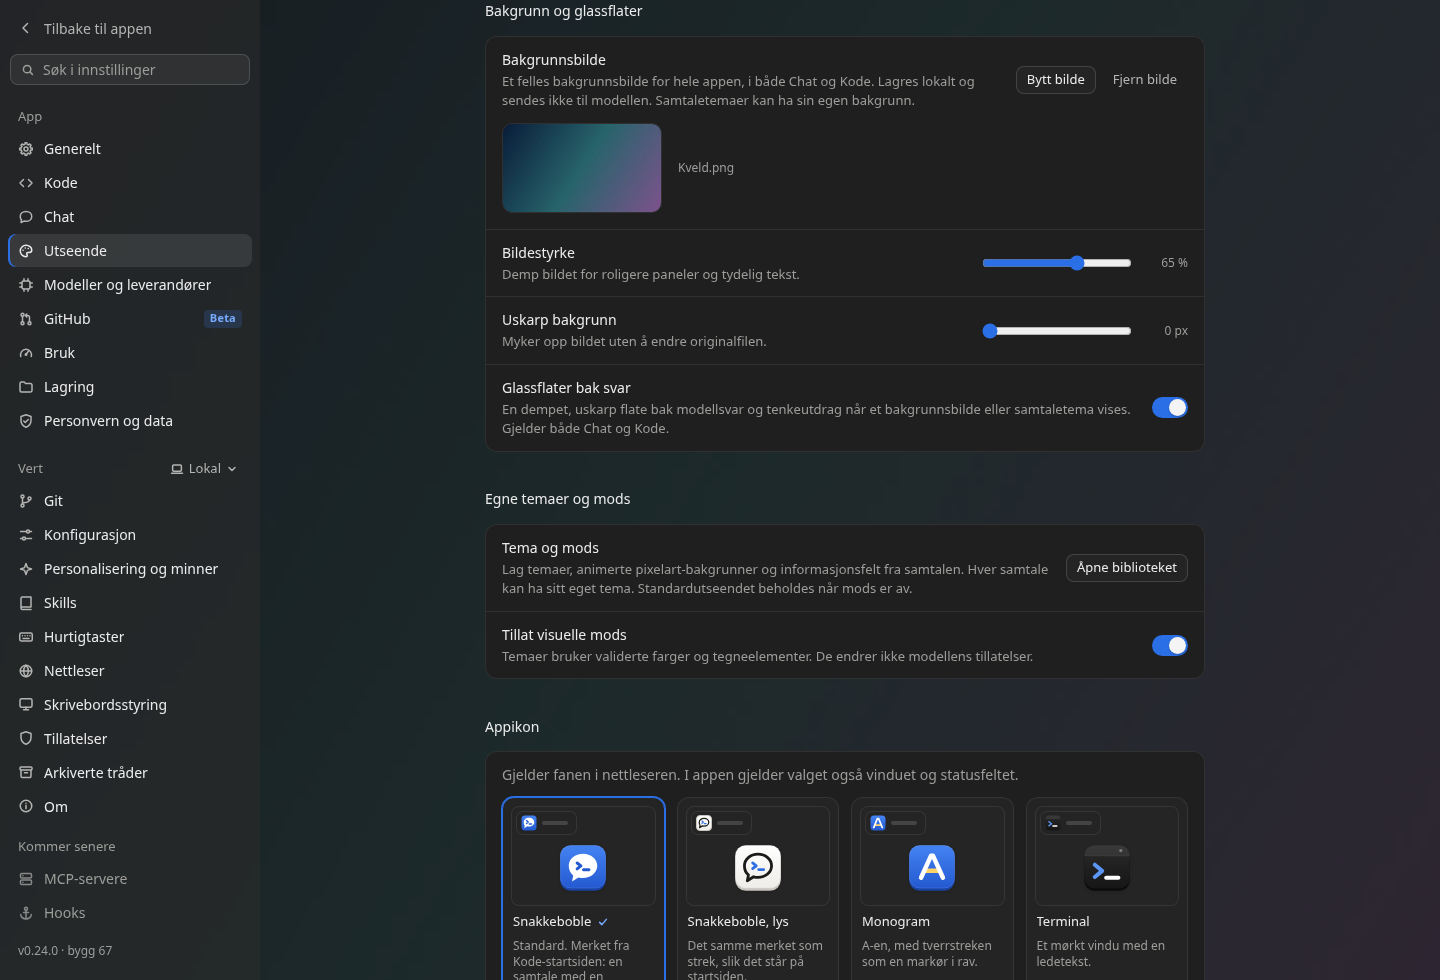
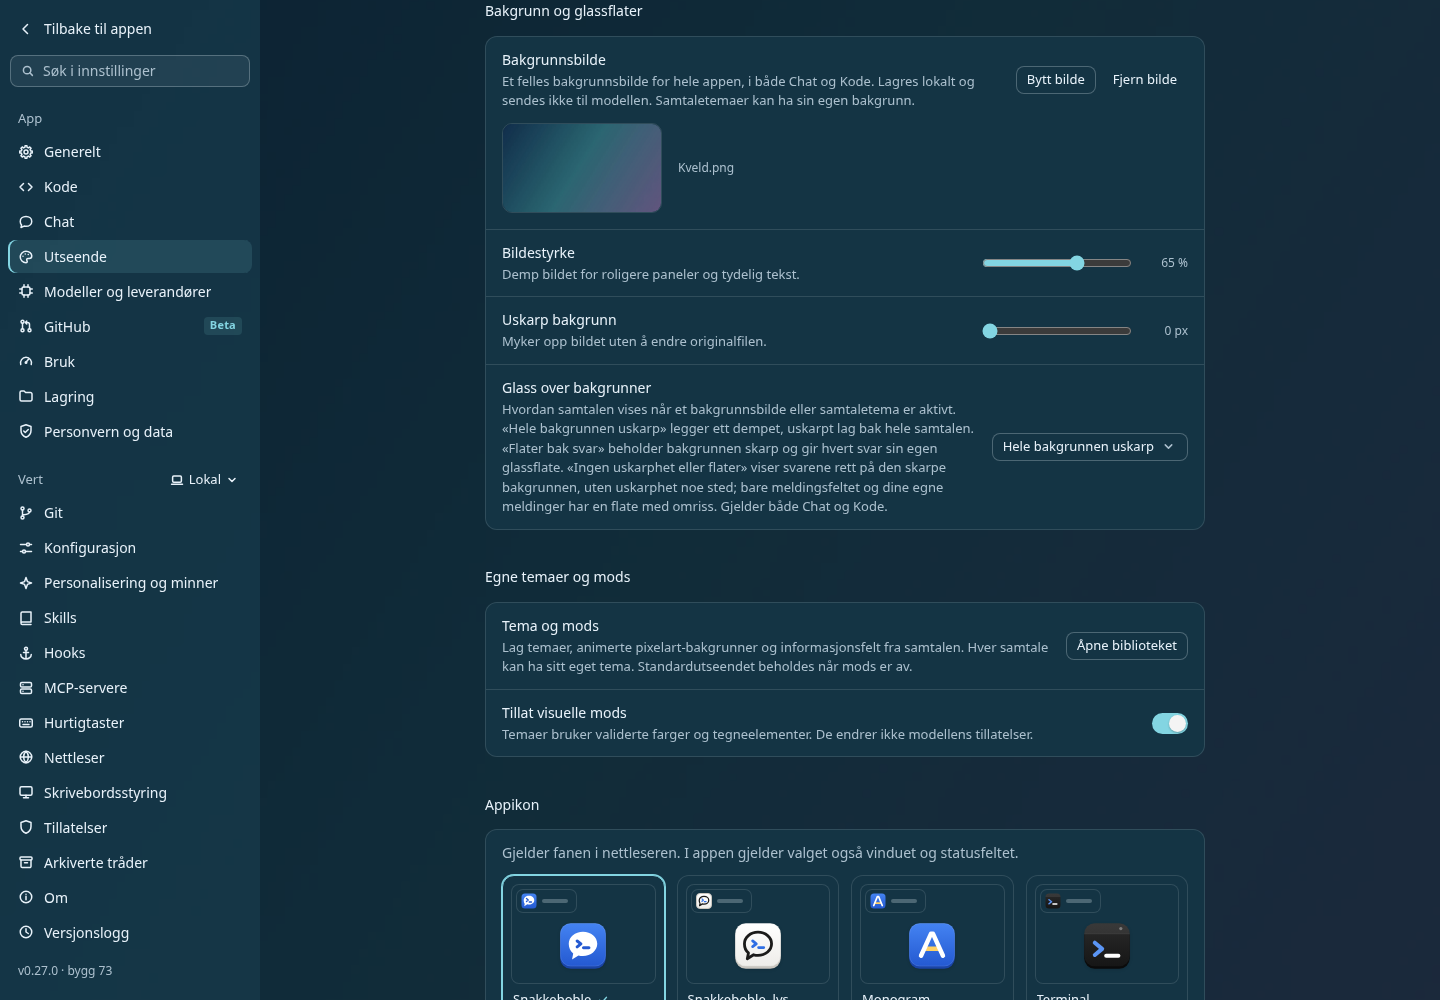
docs: refresh wallpaper screenshots with matching panel palette
Replace the old Chat and Appearance captures with v0.27.0 screenshots
using a global wallpaper and a matching blue-green palette through the
app's supported mod settings. Clarify the configuration in README.

Captured and visually checked in headless Chrome with isolated demo data;
no app code or real user settings changed.

diff --git a/README.md b/README.md
@@ -48,6 +48,8 @@ Last opp et eget bakgrunnsbilde i **Utseende**, felles for hele appen. Juster bi
 |---|---|---|
 | [![Global bakgrunn](docs/bilder/bakgrunn-chat.png)](docs/bilder/bakgrunn-chat.png) | [![Bakgrunnsinnstillinger](docs/bilder/bakgrunn-innstillinger.png)](docs/bilder/bakgrunn-innstillinger.png) | [![Nordlys i Chat](docs/bilder/glass-nordlys.png)](docs/bilder/glass-nordlys.png) |
 
+*De to første bildene viser v0.27.0 med globalt bakgrunnsbilde og en tilpasset blågrønn fargepalett, også i sidepanel og innstillinger.*
+
 ## Nytt i v0.23
 
 Tema og visuelle mods følger hver samtale. Be modellen lage en pixelart-bakgrunn, endre farger eller legge til en klokke over meldingsfeltet. Palettknappen åpner bibliotek med Nordlys, Stjernehimmel og Hav, editor og tilbakestilling. Endringer fra modellen lastes inn etter turen, med samtykke per samtale. Se [Tema og mods](docs/UI-MODS.md).
